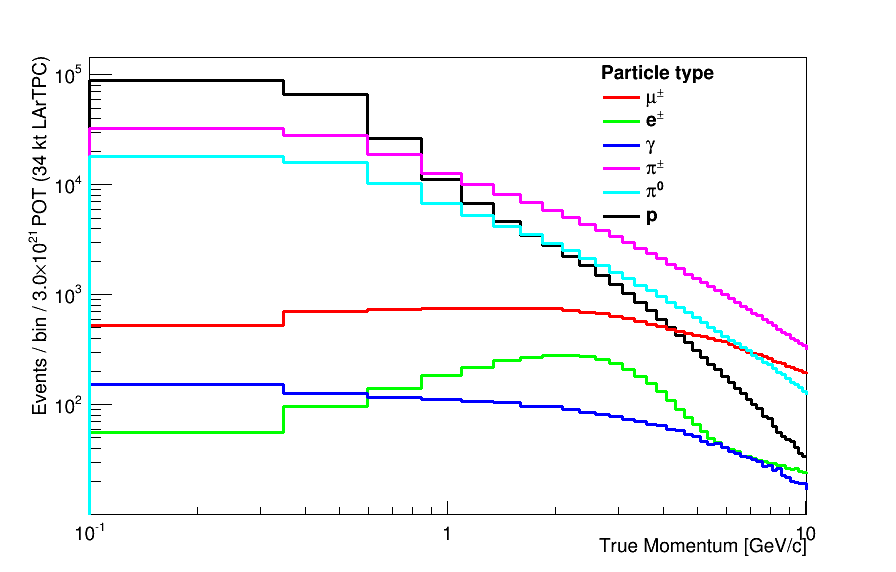
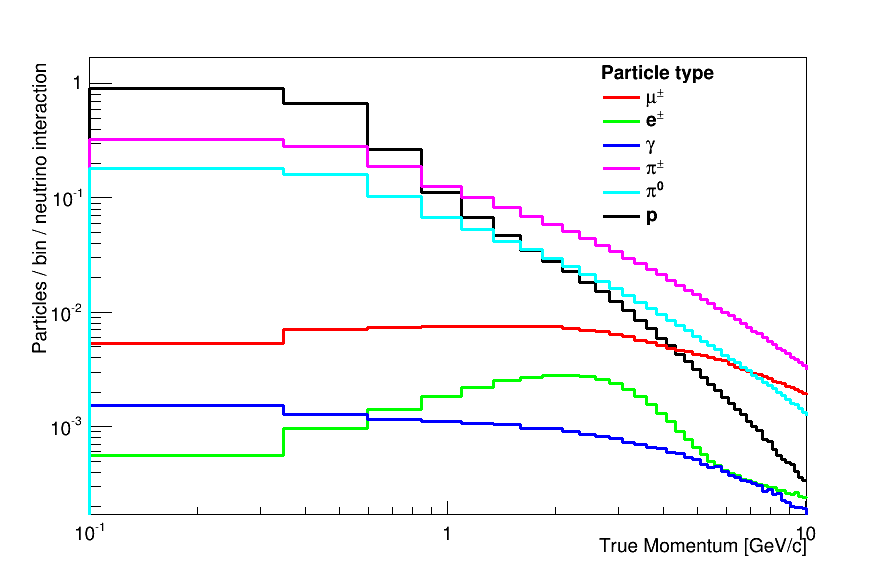
Figure 3. y axis lable modification and scaling to the number of neutrino interactions.

Changed region(s): [[0.0312, 0.0892, 0.9062, 0.8916]]

diff --git a/detbeamtest.tex b/detbeamtest.tex
@@ -118,14 +118,14 @@ in the sub-GeV to few-GeV range provided by charged-particle test beams.
 %\label{detbeam_particles}
 The DUNE experiment will run in both neutrino and anti-neutrino 
 configurations. These beams will be composed  mainly of muon neutrinos (anti-neutrinos) as well as electron neutrinos (anti-neutrinos). In Fig.~\ref{fig:particle_momenta} the distributions of momenta and angles of particles created in neutrino interactions from 
-simulated beam fluxes, including oscillation effects, are shown. The particle rates are calculated for a 34kt far detector and  are combined from both neutrino and anti-neutrino beams.
+simulated beam fluxes, including oscillation effects, are shown. The particle rates are normalised  to the number of neutrino interactions in the DUNE far detector and for the neutrino beam.
 % In addition the electron rates from charged current interactions for muon neutrinos oscillated to electron neutrinos are shown. 
 \begin{figure}[h!]
   \centering
 \includegraphics[width=0.49\textwidth,height=6.0cm]{figures/True_Momenta_per_Particle_9_2_1_0_logy_logx} 
 \includegraphics[width=0.49\textwidth,height=6.0cm]{figures/True_theta_per_Particle_9_2_1_0_lin}
   \caption{Particle momenta (left) and angular (right) distributions for particles produced in neutrino interactions 
-from $\nu_e$, $\nu_\mu$, $\bar \nu_e$ and $\bar \nu_\mu$ at the far detector location.
+from $\nu_e$, $\nu_\mu$, $\bar \nu_e$ and $\bar \nu_\mu$ form the neutrino mode of the beam and at the far detector location.
 %{\color{red}  combine e+e-, improve information content (y-axis, change colors, etc )
 %}
 }
